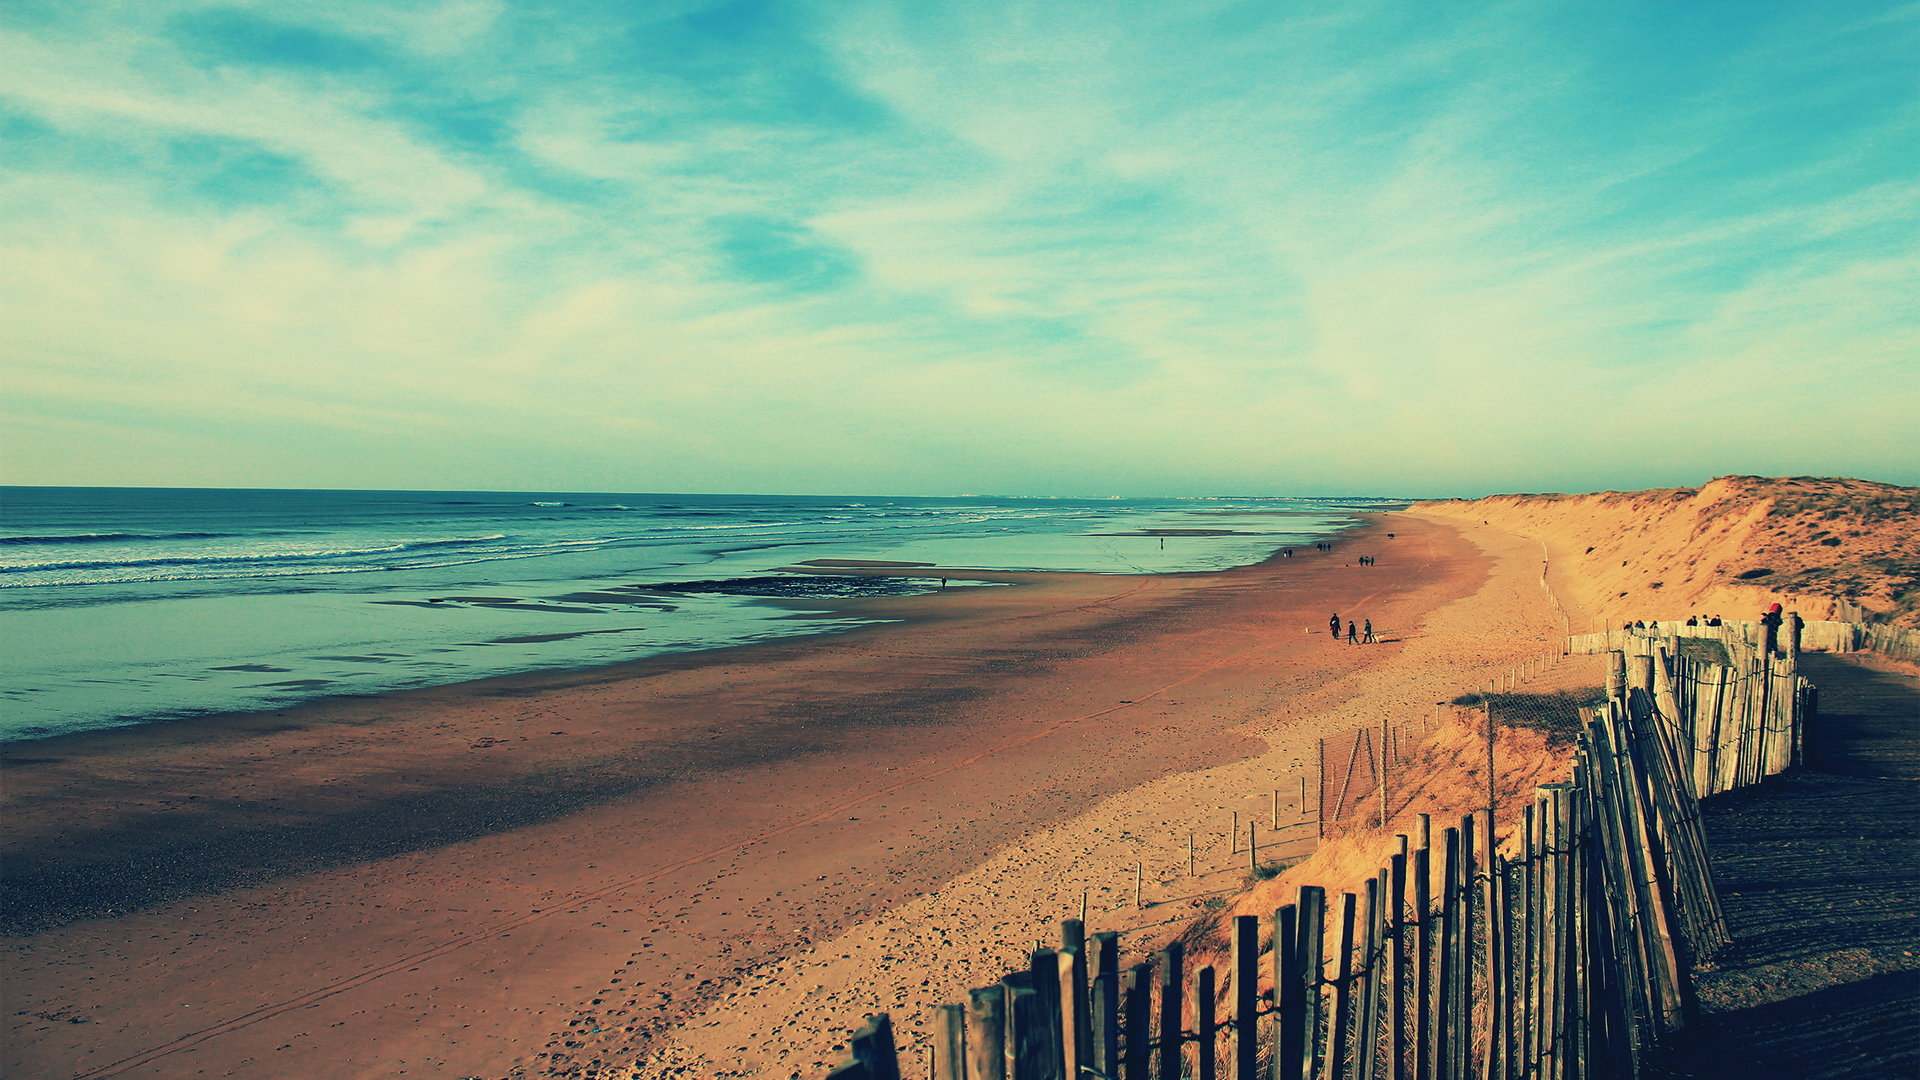
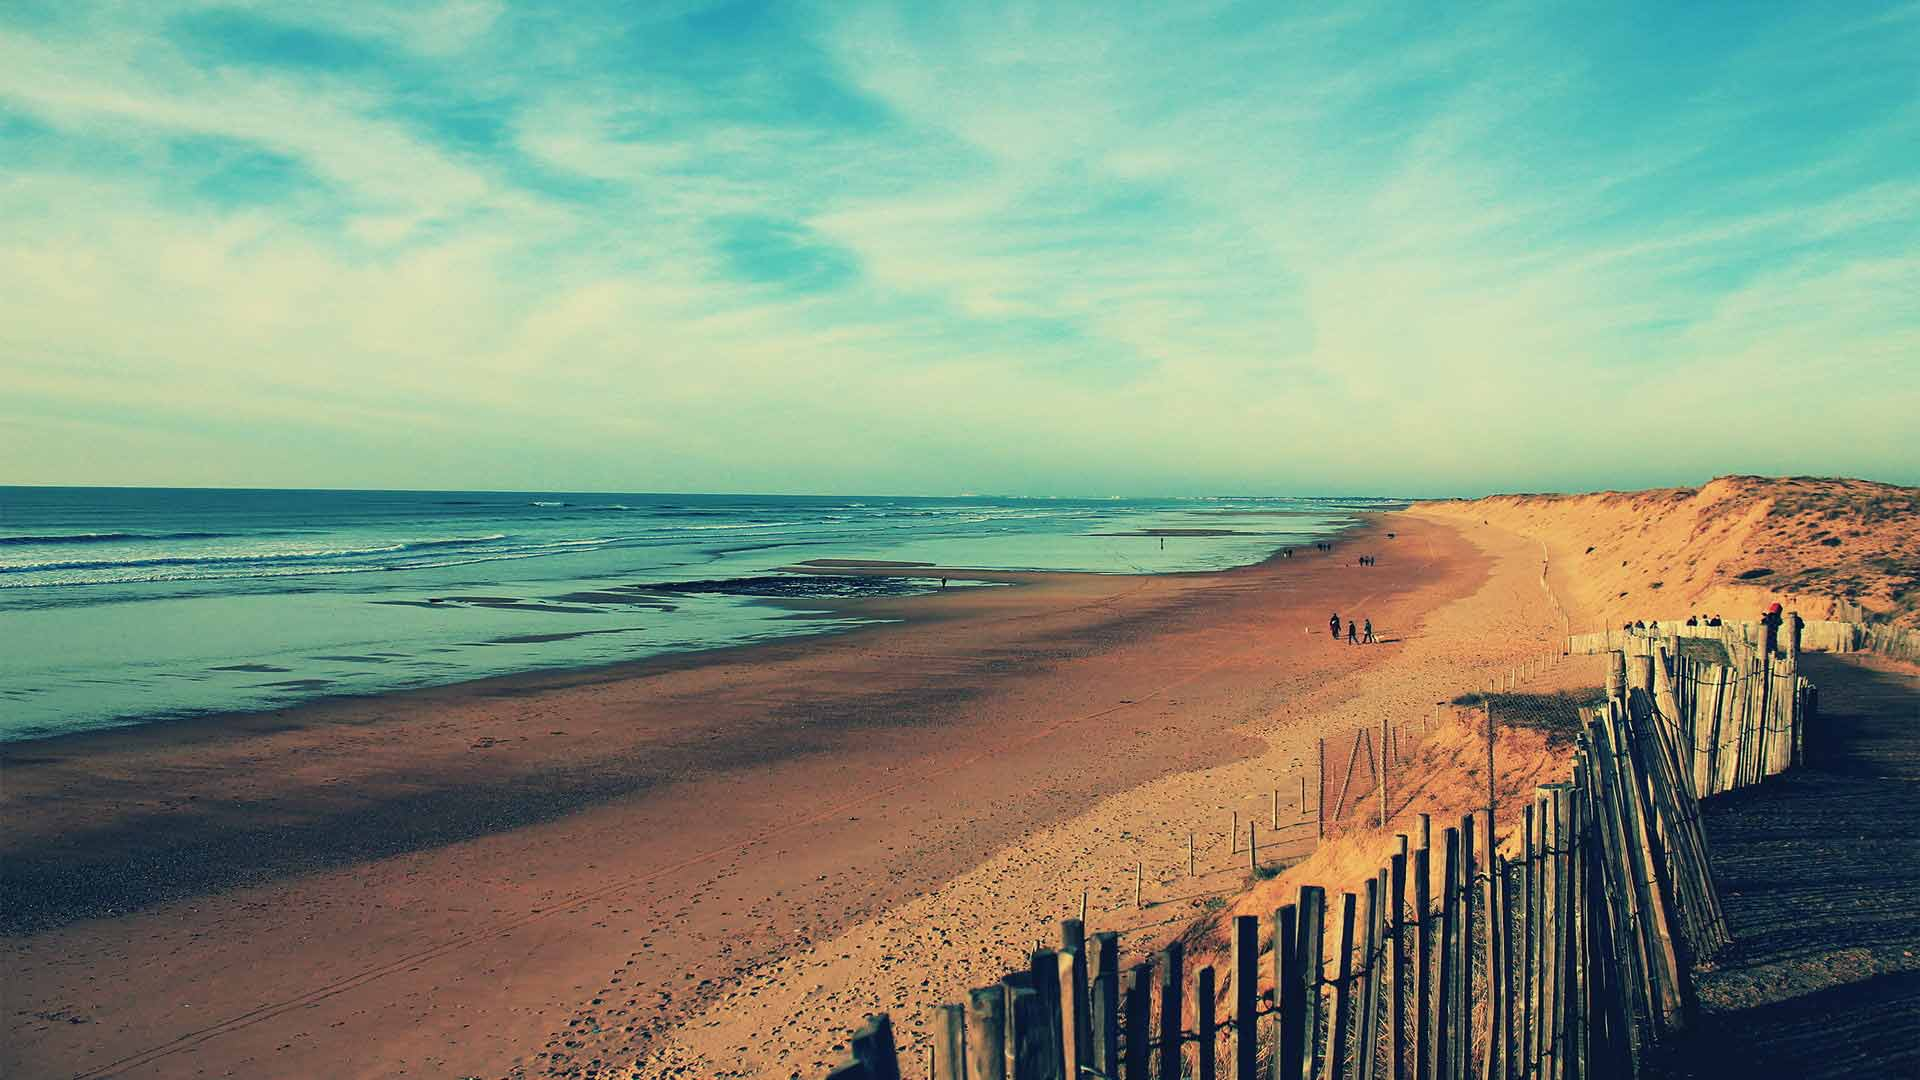
compress image and add loading ui

diff --git a/examples/web-chat-system/app/public/minions.html b/examples/web-chat-system/app/public/minions.html
@@ -15,20 +15,136 @@
 </head>
 <body>
 <div id="chat"></div>
-<script src="js/jquery-1.11.3.min.js"></script>
-<script src="js/jquery-ui.min.js"></script>
-<script src="js/context.js"></script>
-<script src="js/jquery.alerts.js"></script>
-<script src="js/jegarn.js"></script>
-<script src="js/minions.js"></script>
-<script type="text/javascript">
+<style>
+    #loading{
+        width:100%;
+        height: 2000px;
+        background: #000000;
+        opacity: 0.8;
+    }
+    #loading svg{
+        width: 196px;
+        height: 196px;
+        position: absolute;
+        left: 50%;
+        top: 50%;
+        margin: -98px 0 0 -98px;
+    }
+    #loading-process{
+        width: 196px;
+        height: 196px;
+        line-height: 196px;
+        text-align: center;
+        position: absolute;
+        left: 50%;
+        top: 50%;
+        margin: -98px 0 0 -98px;
+        color: #ffffff;
+        font-weight: 700;
+        font-size: 24px;
+    }
+</style>
+<div id="loading">
+    <svg width='196px' height='196px' xmlns="http://www.w3.org/2000/svg" viewBox="0 0 100 100" preserveAspectRatio="xMidYMid" class="uil-balls"><rect x="0" y="0" width="100" height="100" fill="none" class="bk"></rect><g transform="rotate(0 50 50)">
+        <circle r="5" cx="30" cy="50">
+            <animateTransform attributeName="transform" type="translate" begin="0s" repeatCount="indefinite" dur="1s" values="0 0;19.999999999999996 -20" keyTimes="0;1"/>
+            <animate attributeName="fill" dur="1s" begin="0s" repeatCount="indefinite"  keyTimes="0;1" values="#fff;#999"/>
+        </circle>
+    </g><g transform="rotate(90 50 50)">
+        <circle r="5" cx="30" cy="50">
+            <animateTransform attributeName="transform" type="translate" begin="0s" repeatCount="indefinite" dur="1s" values="0 0;19.999999999999996 -20" keyTimes="0;1"/>
+            <animate attributeName="fill" dur="1s" begin="0s" repeatCount="indefinite"  keyTimes="0;1" values="#999;#000"/>
+        </circle>
+    </g><g transform="rotate(180 50 50)">
+        <circle r="5" cx="30" cy="50">
+            <animateTransform attributeName="transform" type="translate" begin="0s" repeatCount="indefinite" dur="1s" values="0 0;19.999999999999996 -20" keyTimes="0;1"/>
+            <animate attributeName="fill" dur="1s" begin="0s" repeatCount="indefinite"  keyTimes="0;1" values="#000;#fff"/>
+        </circle>
+    </g><g transform="rotate(270 50 50)">
+        <circle r="5" cx="30" cy="50">
+            <animateTransform attributeName="transform" type="translate" begin="0s" repeatCount="indefinite" dur="1s" values="0 0;19.999999999999996 -20" keyTimes="0;1"/>
+            <animate attributeName="fill" dur="1s" begin="0s" repeatCount="indefinite"  keyTimes="0;1" values="#fff;#999"/>
+        </circle>
+    </g></svg>
+    <div id="loading-process"></div>
+</div>
+<script>
     (function(){
-        // init chat
-        minions.widget.chat.config = {host: '192.168.199.243', port: 9503, reconnect: 5};
-        // init base widget
-        minions.widget.initBase();
-        // demo
-        minions.demo.init();
+        var loading = {
+            config : null,
+            index: 0,
+            load: function(){
+                var t = this.config[this.index]['type'];
+                var s = this.config[this.index]['src'];
+                if(t == 'js'){
+                    this.loadJs(s);
+                }else if(t == 'image'){
+                    this.loadImage(s);
+                }
+            },
+            loadJs: function(src){
+                var script = document.createElement('script');
+                script.src = src;
+                script.onload = function () {
+                    ++loading.index;
+                    loading.refresh();
+                };
+                document.head.appendChild(script);
+            },
+            loadImage: function(src){
+                var image = document.createElement('img');
+                image.src = src;
+                image.onload = function () {
+                    ++loading.index;
+                    loading.refresh();
+                };
+            },
+            refresh: function(){
+                var p = Math.ceil(this.index / this.config.length * 100);
+                if(this.index != this.config.length){
+                    document.getElementById("loading-process").innerHTML = p + '%';
+                    this.load();
+                }else{
+                    var elem = document.getElementById("loading");
+                    elem.parentNode.removeChild(elem);
+                    this.finish();
+                }
+            },
+            finish: function(){}
+        };
+        loading.config = [
+            {type: 'js', src: 'js/jquery-1.11.3.min.js'},
+            {type: 'js', src: 'js/jquery-ui.min.js'},
+            {type: 'js', src: 'js/context.js'},
+            {type: 'js', src: 'js/jquery.alerts.js'},
+            {type: 'js', src: 'js/jegarn.js'},
+            {type: 'js', src: 'js/minions.js'},
+            {type: 'image', 'src': 'images/logo.png'},
+            {type: 'image', 'src': 'images/book.png'},
+            {type: 'image', 'src': 'images/chat2.png'},
+            {type: 'image', 'src': 'images/radio.png'},
+            {type: 'image', 'src': 'images/stack.png'},
+            {type: 'image', 'src': 'images/stack2.png'},
+            {type: 'image', 'src': 'images/dock-login.png'},
+            {type: 'image', 'src': 'images/comments.png'},
+            {type: 'image', 'src': 'images/chat.png'},
+            {type: 'image', 'src': 'images/comments2.png'},
+            {type: 'image', 'src': 'images/open_arrow_fire.png'},
+            {type: 'image', 'src': 'images/book2.png'},
+            {type: 'image', 'src': 'images/open_arrow.png'},
+            {type: 'image', 'src': 'images/avatar.jpg'},
+            {type: 'image', 'src': 'images/chat-bg.jpg'},
+            {type: 'image', 'src': 'images/dock-recommend-user.png'}
+        ];
+        loading.finish = function(){
+            // init chat
+            minions.widget.chat.config = {host: '192.168.199.243', port: 9503, reconnect: 5};
+            // init base widget
+            minions.widget.initBase();
+            // demo
+            minions.demo.init();
+        };
+        loading.load();
     })();
 </script>
 </body>

diff --git a/examples/web-chat-system/app/public/css/chat.css b/examples/web-chat-system/app/public/css/chat.css
@@ -1,4 +1,7 @@
 html,body,div,span,applet,object,iframe,h1,h2,h3,h4,h5,h6,p,blockquote,pre,a,abbr,acronym,address,big,cite,code,del,dfn,em,img,ins,kbd,q,s,samp,small,strike,strong,sub,sup,tt,var,b,i,u,center,dl,dt,dd,ol,ul,li,fieldset,form,label,legend,table,caption,tbody,tfoot,thead,tr,th,td,article,aside,canvas,details,embed,fieldset,figure,figcaption,footer,header,menu,nav,output,ruby,section,summary,time,mark,audio,video{margin:0;padding:0;list-style:none;}
+body{
+    overflow: hidden;
+}
 #chat{
     background: url('../images/chat-bg.jpg') left top;
     background-size: cover;
